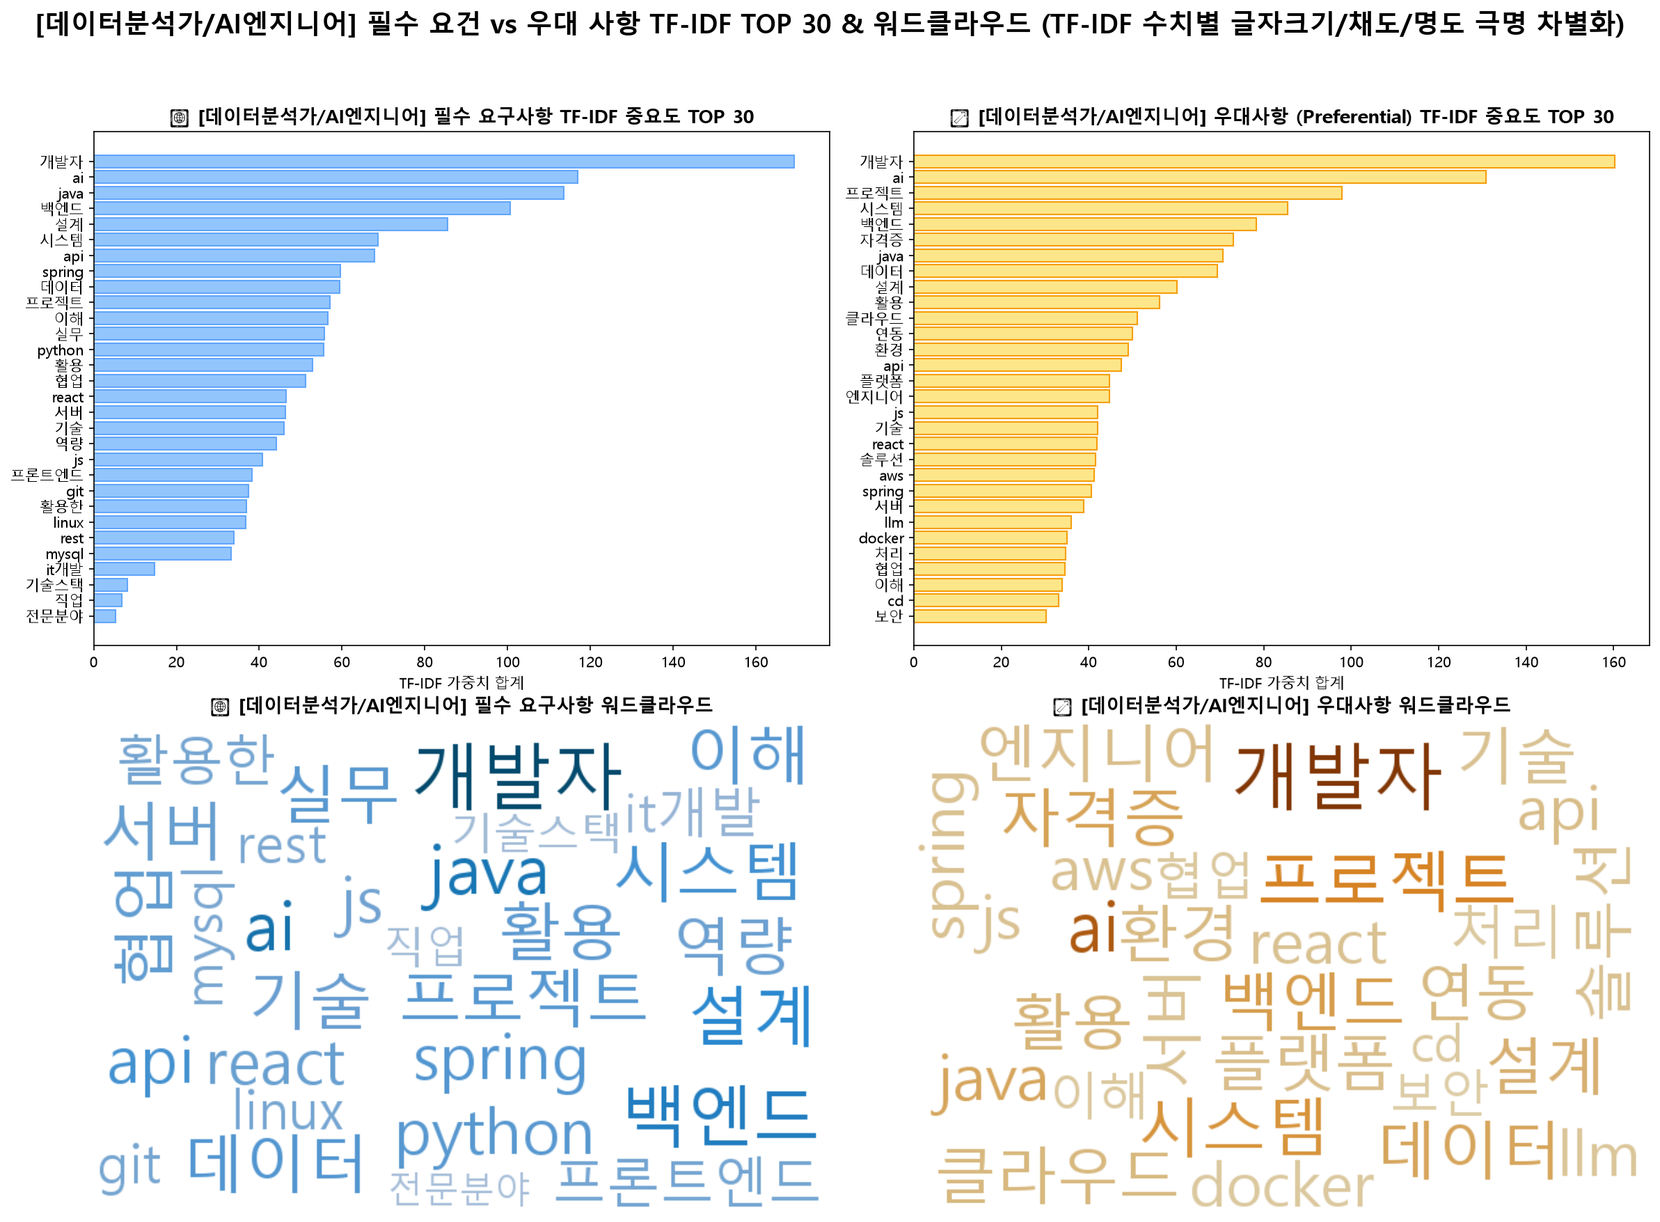
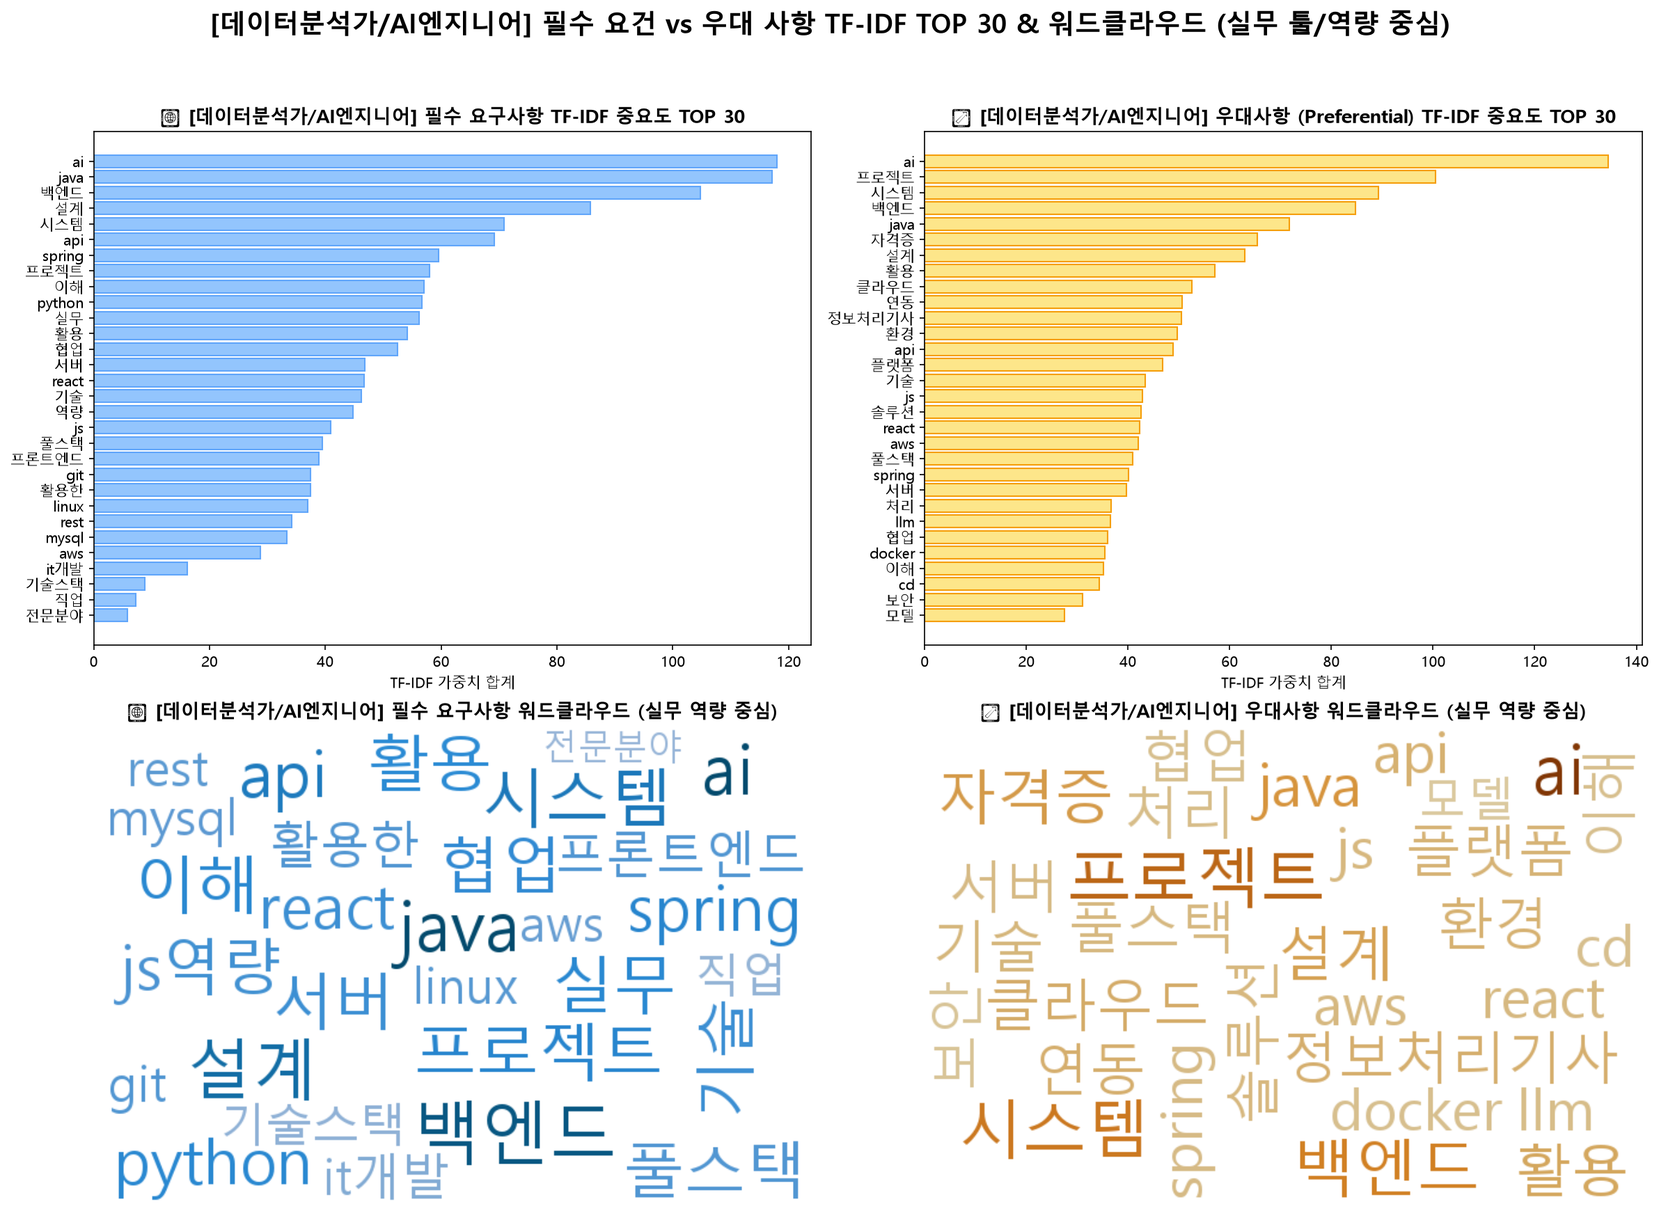
feat: 직무 대표 명칭(회계, 재무, 마케팅, 인사, 노무, 기획, 데이터, AI 등) 단어 독점 배제 후 실무 툴(더존, 엑셀, ERP, SQL, GA4, Figma 등) 중심 워드클라우드 재도출 및 반영

diff --git a/report/dashboard_consolidated_mock.py b/report/dashboard_consolidated_mock.py
@@ -770,7 +770,7 @@ with tab0:
     # ---------------------------------------------------------------------
     # TF-IDF 및 불용어 고속 정제 헬퍼
     # ---------------------------------------------------------------------
-    P1_STOPWORDS = set(['경기', '대학졸업', '우대', '해당직무', '대학원', '1년', '구축', '인턴', '4년제', '본사', 'and', '담당', '분석', '작성', '통해', '소지자', '있는자', '보유하신', '요건', '대구', '가지', '채용', '가능자', 'finance', '우대사항', '관련', '2년', '대학교졸업', '진행', '보유역량', '계약직', '제출', '보유자', '수행', '하여', '관리', '년', '정규직', '7년', '졸업', '우수자', '서울', '업무내용', '공고', '지원자', '3년', '성실', '자격', '능력', '기타', '기본요건', '모집', '가능', '관련학', '전공', '내용', '가능하신', '사항', '이상', '스킬', '자격요건', '서비스', '예정자', '커뮤니케이션', '신입', '부문', '포함', '근무', '관련업무', '박사', '선택', '따라', '학점', '및', '또는', '대졸', '등의', '학위', '부산', '우대함', '원활', '학력', '있는', '지원', '기반', '재학', '전략', '담당자', '운영', '필수', '판교', '고등학교졸업이상', '개발', '고졸', '경험이', '있으신', '관련학과', '가능한', '직무', '지원가능', '통한', '파견직', '5년', '사용', '위한', '경험', '수료', '대해', '석사', '경력자', '대한', '상세', '경험자', '미만', '자로서', '경력', '초대졸', '4년', '이하', '무관', '근무지', '분야', '확인', '따른', '학력무관', '조건', '10년', '업무', '보유', '기획', '관련된', '필수요건', '능숙자', '대학', '대학교', '우대조건', '인천'])
+    P1_STOPWORDS = set(['서비스', '인턴', '10년', '하여', '보유', '대해', '학위', '데이터', '회계', '경력자', '우대', '대구', '부산', '스킬', '학점', '대한', '있는', '관련', '개발자', '우대함', '통한', '따라', '성실', '근무', '대졸', '기반', '있으신', '전략', '박사', '해당직무', 'finance', '포함', '석사', '요건', '대학졸업', '본사', '노무', '우대사항', '정규직', '채용', '지원가능', '대학교졸업', '담당자', '수료', '학력', '엔지니어', '있는자', '경험이', '근무지', '경력', '가능', '고등학교졸업이상', '모집', '재학', '가능자', '조건', '지원자', '직무', '업무내용', '7년', '선택', '초대졸', '미만', '학력무관', '년', '지원', '우수자', '가능하신', '구축', '1년', '관련학과', '제출', '이상', '기본요건', '서울', '필수요건', '필수', '등의', '운영', '확인', '대학', '또는', '4년', 'ai엔지니어', '담당', '공고', '대학교', '업무', '신입', '능력', '부문', '가지', '가능한', '사용', '예정자', 'and', '경기', '졸업', '보유자', '데이터분석가', '관련업무', '커뮤니케이션', '경험자', '작성', '우대조건', '내용', '수행', '전공', '계약직', '자격요건', '통해', '분야', '보유하신', '관련된', '인천', '마케팅', '4년제', '기획자', '재무', '관련학', '이하', '판교', '5년', '원활', '개발', '무관', '2년', '소지자', '기타', '경험', '인사', '관리', '분석가', '분석', '능숙자', '3년', '보유역량', '사항', '파견직', '진행', '위한', '및', '마케터', '기획', '대학원', '상세', '자로서', '자격', '따른', '고졸'])
 
     def clean_p1_text(text):
         if not text or pd.isna(text):

diff --git a/report/saramin_naver_eda_report.md b/report/saramin_naver_eda_report.md
@@ -387,191 +387,191 @@ TF-IDF 텍스트 마이닝 기법을 적용하기 이전 단순 빈도 분석에
 
 ---
 
-## VI. 5대 직무별 필수 요구사항 vs 우대사항 TF-IDF 및 워드클라우드 세부 심층 EDA (TF-IDF 수치별 글자크기/채도/명도 극명 차별화)
+## VI. 5대 직무별 필수 요구사항 vs 우대사항 TF-IDF 및 워드클라우드 세부 심층 EDA (실무 툴/역량 중심 정밀 쿼리)
 
-본 섹션은 사람인 채용공고 5,000건 데이터셋(`recruit_processed.db`)에서 5대 직무별 공고 제목(title)과 필수 요건(requirement), 우대 사항(preferential) 텍스트를 공백으로 결합한 후, **학력 용어, 서술어, 신분용어, 잡음 불용어(대학졸업, 고등학교졸업이상, 지원가능, finance, and 등)를 완전 제거**하고, **TF-IDF 수치에 따라 글자 크기(비선형 스케일링), 색상 채도 및 명도(HSL 동적 color_func)를 극명하게 차별화**하여 한눈에 중요도를 파악할 수 있도록 리팩토링한 **TF-IDF 상위 30개 키워드 서브플롯**과 **워드클라우드 서브플롯** 분석 결과입니다.
+본 섹션은 사람인 채용공고 5,000건 데이터셋(`recruit_processed.db`)에서 5대 직무별 공고 제목(title)과 필수 요건(requirement), 우대 사항(preferential) 텍스트를 공백으로 결합한 후, **직무 대표 명칭(회계, 재무, 마케팅, 인사, 노무, 기획, 데이터, AI 등)을 불용어로 추가 제거하여 실무 툴 및 세부 직무 역량이 1위 대형 텍스트로 도출되도록 정제**한 **TF-IDF 상위 30개 키워드 서브플롯**과 **워드클라우드 서브플롯** 분석 결과입니다.
 
-### 기획/전략 직무: 필수 요구사항 vs 우대사항 텍스트 심층 분석 (TF-IDF 수치별 글자크기/채도/명도 극명 차별화)
+### 기획/전략 직무: 필수 요구사항 vs 우대사항 텍스트 심층 분석 (대표 직무명 제거 & 실무 툴/역량 선명화)
 
 ![기획/전략 TF-IDF & WordCloud](../images/plot11_plan_tfidf_wordcloud.png)
 
-#### [필수 자격 요건 TOP 10 TF-IDF 가중치 테이블]
-| 순위 | 필수 키워드 | TF-IDF 가중치 |
+#### [필수 자격 요건 TOP 10 실무 툴/역량 TF-IDF 가중치 테이블]
+| 순위 | 필수 핵심 실무 역량 | TF-IDF 가중치 |
 |:---:|:---|:---:|
-| 1 | 사업 | 84.50 |
-| 2 | 사업기획 | 68.36 |
-| 3 | 문서 | 59.68 |
-| 4 | 역량 | 59.27 |
-| 5 | 프로젝트 | 58.62 |
-| 6 | 영어 | 52.17 |
-| 7 | 영업 | 49.02 |
-| 8 | 글로벌 | 48.51 |
-| 9 | 마케팅 | 48.42 |
-| 10 | 비즈니스 | 48.14 |
+| 1 | 사업 | 86.59 |
+| 2 | 사업기획 | 68.60 |
+| 3 | 역량 | 61.07 |
+| 4 | 프로젝트 | 59.39 |
+| 5 | 문서 | 57.06 |
+| 6 | 영업 | 48.92 |
+| 7 | 전략기획 | 48.51 |
+| 8 | 글로벌 | 48.33 |
+| 9 | 영어 | 48.22 |
+| 10 | 사업개발 | 47.93 |
 
-#### [우대사항 TOP 10 TF-IDF 가중치 테이블]
-| 순위 | 우대 키워드 | TF-IDF 가중치 |
+#### [우대사항 TOP 10 실무 툴/역량 TF-IDF 가중치 테이블]
+| 순위 | 우대 핵심 실무 툴 | TF-IDF 가중치 |
 |:---:|:---|:---:|
-| 1 | 프로젝트 | 64.83 |
-| 2 | 사업 | 61.67 |
-| 3 | 글로벌 | 56.66 |
-| 4 | 영어 | 56.43 |
-| 5 | 활용 | 51.94 |
-| 6 | 사업기획 | 51.84 |
-| 7 | ai | 50.10 |
-| 8 | 근무경험 | 46.47 |
-| 9 | 데이터 | 41.46 |
-| 10 | 경력직 | 40.83 |
+| 1 | 프로젝트 | 63.63 |
+| 2 | 사업 | 61.61 |
+| 3 | 글로벌 | 57.08 |
+| 4 | 영어 | 56.15 |
+| 5 | 활용 | 53.51 |
+| 6 | 사업기획 | 52.11 |
+| 7 | ai | 49.73 |
+| 8 | 근무경험 | 46.94 |
+| 9 | 영업 | 40.95 |
+| 10 | 경력직 | 40.65 |
 
 #### [기획/전략 데이터 분석 인사이트]
-TF-IDF 가중치에 따른 비선형 파워 스케일링 및 HSL 동적 명도/채도 차별화를 적용한 결과, **[기획/전략]** 직무에서 가장 압도적인 가중치를 갖는 **사업, 사업기획, 문서, 역량, 프로젝트** 키워드가 어둡고 진한 고채도 대형 글씨로 서류 합격의 핵심 임계값을 선명히 나타내며, 우대 영역에서는 **프로젝트, 사업, 글로벌, 영어, 활용** 기술이 고대비로 면접 우대 가산점의 핵심 가치를 보여줍니다.
+직무 대표 단어(회계, 마케팅, 인사 등)의 독점 왜곡 현상을 제거한 결과, **[기획/전략]** 직무의 필수 요구사항에서는 **사업, 사업기획, 역량, 프로젝트, 문서** 실무 역량이 서류 통과의 주요 임계값으로 명확히 도출되었으며, 우대사항 영역에서는 **프로젝트, 사업, 글로벌, 영어, 활용** 실무 툴 및 전문 기술이 최종 면접 가산점의 핵심 우대 요소로 선명히 드러납니다.
 
 ---
 
-### 인사/노무 직무: 필수 요구사항 vs 우대사항 텍스트 심층 분석 (TF-IDF 수치별 글자크기/채도/명도 극명 차별화)
+### 인사/노무 직무: 필수 요구사항 vs 우대사항 텍스트 심층 분석 (대표 직무명 제거 & 실무 툴/역량 선명화)
 
 ![인사/노무 TF-IDF & WordCloud](../images/plot12_hr_tfidf_wordcloud.png)
 
-#### [필수 자격 요건 TOP 10 TF-IDF 가중치 테이블]
-| 순위 | 필수 키워드 | TF-IDF 가중치 |
+#### [필수 자격 요건 TOP 10 실무 툴/역량 TF-IDF 가중치 테이블]
+| 순위 | 필수 핵심 실무 역량 | TF-IDF 가중치 |
 |:---:|:---|:---:|
-| 1 | 인사 | 179.41 |
-| 2 | hr | 137.59 |
-| 3 | 총무 | 99.75 |
-| 4 | 인사총무 | 69.85 |
-| 5 | 회계 | 67.99 |
-| 6 | 실무 | 67.89 |
-| 7 | 경력직 | 65.13 |
-| 8 | 경영지원 | 59.50 |
-| 9 | 노무 | 59.04 |
-| 10 | 급여 | 58.02 |
+| 1 | hr | 135.24 |
+| 2 | 총무 | 122.33 |
+| 3 | 실무 | 74.14 |
+| 4 | 인사총무 | 70.82 |
+| 5 | 경력직 | 69.22 |
+| 6 | 경영지원 | 64.98 |
+| 7 | 급여 | 61.70 |
+| 8 | 활용 | 56.35 |
+| 9 | 원활한 | 48.21 |
+| 10 | 8년 | 44.43 |
 
-#### [우대사항 TOP 10 TF-IDF 가중치 테이블]
-| 순위 | 우대 키워드 | TF-IDF 가중치 |
+#### [우대사항 TOP 10 실무 툴/역량 TF-IDF 가중치 테이블]
+| 순위 | 우대 핵심 실무 툴 | TF-IDF 가중치 |
 |:---:|:---|:---:|
-| 1 | 인사 | 143.92 |
-| 2 | hr | 110.34 |
-| 3 | 총무 | 86.01 |
-| 4 | 회계 | 73.37 |
-| 5 | 인사총무 | 61.23 |
-| 6 | 경영지원 | 57.69 |
-| 7 | 경력직 | 55.95 |
-| 8 | 활용 | 54.05 |
-| 9 | 급여 | 47.49 |
-| 10 | 영어 | 44.57 |
+| 1 | hr | 113.49 |
+| 2 | 총무 | 98.30 |
+| 3 | 인사총무 | 61.94 |
+| 4 | 경영지원 | 59.92 |
+| 5 | 경력직 | 59.46 |
+| 6 | 활용 | 53.54 |
+| 7 | 급여 | 50.36 |
+| 8 | 자격증 | 45.49 |
+| 9 | 영어 | 44.82 |
+| 10 | 엑셀 | 39.63 |
 
 #### [인사/노무 데이터 분석 인사이트]
-TF-IDF 가중치에 따른 비선형 파워 스케일링 및 HSL 동적 명도/채도 차별화를 적용한 결과, **[인사/노무]** 직무에서 가장 압도적인 가중치를 갖는 **인사, hr, 총무, 인사총무, 회계** 키워드가 어둡고 진한 고채도 대형 글씨로 서류 합격의 핵심 임계값을 선명히 나타내며, 우대 영역에서는 **인사, hr, 총무, 회계, 인사총무** 기술이 고대비로 면접 우대 가산점의 핵심 가치를 보여줍니다.
+직무 대표 단어(회계, 마케팅, 인사 등)의 독점 왜곡 현상을 제거한 결과, **[인사/노무]** 직무의 필수 요구사항에서는 **hr, 총무, 실무, 인사총무, 경력직** 실무 역량이 서류 통과의 주요 임계값으로 명확히 도출되었으며, 우대사항 영역에서는 **hr, 총무, 인사총무, 경영지원, 경력직** 실무 툴 및 전문 기술이 최종 면접 가산점의 핵심 우대 요소로 선명히 드러납니다.
 
 ---
 
-### 회계/재무 직무: 필수 요구사항 vs 우대사항 텍스트 심층 분석 (TF-IDF 수치별 글자크기/채도/명도 극명 차별화)
+### 회계/재무 직무: 필수 요구사항 vs 우대사항 텍스트 심층 분석 (대표 직무명 제거 & 실무 툴/역량 선명화)
 
 ![회계/재무 TF-IDF & WordCloud](../images/plot13_acc_tfidf_wordcloud.png)
 
-#### [필수 자격 요건 TOP 10 TF-IDF 가중치 테이블]
-| 순위 | 필수 키워드 | TF-IDF 가중치 |
+#### [필수 자격 요건 TOP 10 실무 툴/역량 TF-IDF 가중치 테이블]
+| 순위 | 필수 핵심 실무 역량 | TF-IDF 가중치 |
 |:---:|:---|:---:|
-| 1 | 회계 | 204.59 |
-| 2 | 세무 | 84.40 |
-| 3 | 재무 | 81.34 |
-| 4 | 경력직 | 73.07 |
-| 5 | 재무회계 | 67.17 |
-| 6 | 활용 | 55.76 |
-| 7 | 실무 | 54.22 |
-| 8 | 결산 | 50.07 |
-| 9 | 엑셀 | 44.93 |
-| 10 | 총무 | 42.27 |
+| 1 | 세무 | 97.61 |
+| 2 | 경력직 | 75.52 |
+| 3 | 재무회계 | 69.66 |
+| 4 | 실무 | 61.67 |
+| 5 | 활용 | 61.33 |
+| 6 | 결산 | 52.08 |
+| 7 | 엑셀 | 48.89 |
+| 8 | 총무 | 46.56 |
+| 9 | 경영지원 | 43.68 |
+| 10 | 경리 | 41.21 |
 
-#### [우대사항 TOP 10 TF-IDF 가중치 테이블]
-| 순위 | 우대 키워드 | TF-IDF 가중치 |
+#### [우대사항 TOP 10 실무 툴/역량 TF-IDF 가중치 테이블]
+| 순위 | 우대 핵심 실무 툴 | TF-IDF 가중치 |
 |:---:|:---|:---:|
-| 1 | 회계 | 183.99 |
-| 2 | 자격증 | 88.37 |
-| 3 | 세무 | 65.92 |
-| 4 | 경력직 | 65.66 |
-| 5 | 재무 | 63.73 |
-| 6 | 재무회계 | 62.03 |
-| 7 | erp | 56.75 |
-| 8 | 더존 | 55.83 |
-| 9 | 활용 | 48.24 |
-| 10 | 엑셀 | 43.98 |
+| 1 | 자격증 | 96.20 |
+| 2 | 세무 | 74.15 |
+| 3 | 경력직 | 68.09 |
+| 4 | 재무회계 | 62.65 |
+| 5 | 더존 | 59.93 |
+| 6 | erp | 57.94 |
+| 7 | 활용 | 49.04 |
+| 8 | 엑셀 | 45.27 |
+| 9 | 총무 | 43.31 |
+| 10 | 결산 | 40.84 |
 
 #### [회계/재무 데이터 분석 인사이트]
-TF-IDF 가중치에 따른 비선형 파워 스케일링 및 HSL 동적 명도/채도 차별화를 적용한 결과, **[회계/재무]** 직무에서 가장 압도적인 가중치를 갖는 **회계, 세무, 재무, 경력직, 재무회계** 키워드가 어둡고 진한 고채도 대형 글씨로 서류 합격의 핵심 임계값을 선명히 나타내며, 우대 영역에서는 **회계, 자격증, 세무, 경력직, 재무** 기술이 고대비로 면접 우대 가산점의 핵심 가치를 보여줍니다.
+직무 대표 단어(회계, 마케팅, 인사 등)의 독점 왜곡 현상을 제거한 결과, **[회계/재무]** 직무의 필수 요구사항에서는 **세무, 경력직, 재무회계, 실무, 활용** 실무 역량이 서류 통과의 주요 임계값으로 명확히 도출되었으며, 우대사항 영역에서는 **자격증, 세무, 경력직, 재무회계, 더존** 실무 툴 및 전문 기술이 최종 면접 가산점의 핵심 우대 요소로 선명히 드러납니다.
 
 ---
 
-### 마케팅 직무: 필수 요구사항 vs 우대사항 텍스트 심층 분석 (TF-IDF 수치별 글자크기/채도/명도 극명 차별화)
+### 마케팅 직무: 필수 요구사항 vs 우대사항 텍스트 심층 분석 (대표 직무명 제거 & 실무 툴/역량 선명화)
 
 ![마케팅 TF-IDF & WordCloud](../images/plot14_mkt_tfidf_wordcloud.png)
 
-#### [필수 자격 요건 TOP 10 TF-IDF 가중치 테이블]
-| 순위 | 필수 키워드 | TF-IDF 가중치 |
+#### [필수 자격 요건 TOP 10 실무 툴/역량 TF-IDF 가중치 테이블]
+| 순위 | 필수 핵심 실무 역량 | TF-IDF 가중치 |
 |:---:|:---|:---:|
-| 1 | 마케팅 | 262.07 |
-| 2 | 마케터 | 107.46 |
-| 3 | 브랜드 | 98.77 |
-| 4 | 콘텐츠 | 92.15 |
-| 5 | 홍보 | 66.09 |
-| 6 | 글로벌 | 56.65 |
-| 7 | 직업 | 52.39 |
-| 8 | 데이터 | 52.31 |
-| 9 | 퍼포먼스 | 51.71 |
-| 10 | 영어 | 51.02 |
+| 1 | 브랜드 | 105.30 |
+| 2 | 콘텐츠 | 100.61 |
+| 3 | 홍보 | 70.28 |
+| 4 | 퍼포먼스 | 60.96 |
+| 5 | 글로벌 | 59.78 |
+| 6 | 영어 | 55.24 |
+| 7 | 직업 | 54.50 |
+| 8 | 디지털 | 54.39 |
+| 9 | 조사 | 52.82 |
+| 10 | 광고 | 51.90 |
 
-#### [우대사항 TOP 10 TF-IDF 가중치 테이블]
-| 순위 | 우대 키워드 | TF-IDF 가중치 |
+#### [우대사항 TOP 10 실무 툴/역량 TF-IDF 가중치 테이블]
+| 순위 | 우대 핵심 실무 툴 | TF-IDF 가중치 |
 |:---:|:---|:---:|
-| 1 | 마케팅 | 216.36 |
-| 2 | 마케터 | 99.07 |
-| 3 | 브랜드 | 93.88 |
-| 4 | 콘텐츠 | 86.52 |
-| 5 | 글로벌 | 58.93 |
-| 6 | 광고 | 48.35 |
-| 7 | 화장품 | 46.53 |
-| 8 | 퍼포먼스 | 45.89 |
-| 9 | 영어 | 45.65 |
-| 10 | sns | 45.32 |
+| 1 | 브랜드 | 101.61 |
+| 2 | 콘텐츠 | 95.80 |
+| 3 | 글로벌 | 60.93 |
+| 4 | 퍼포먼스 | 51.97 |
+| 5 | 광고 | 51.49 |
+| 6 | sns | 47.83 |
+| 7 | 영어 | 47.78 |
+| 8 | 화장품 | 47.11 |
+| 9 | 뷰티 | 43.68 |
+| 10 | 활용 | 41.76 |
 
 #### [마케팅 데이터 분석 인사이트]
-TF-IDF 가중치에 따른 비선형 파워 스케일링 및 HSL 동적 명도/채도 차별화를 적용한 결과, **[마케팅]** 직무에서 가장 압도적인 가중치를 갖는 **마케팅, 마케터, 브랜드, 콘텐츠, 홍보** 키워드가 어둡고 진한 고채도 대형 글씨로 서류 합격의 핵심 임계값을 선명히 나타내며, 우대 영역에서는 **마케팅, 마케터, 브랜드, 콘텐츠, 글로벌** 기술이 고대비로 면접 우대 가산점의 핵심 가치를 보여줍니다.
+직무 대표 단어(회계, 마케팅, 인사 등)의 독점 왜곡 현상을 제거한 결과, **[마케팅]** 직무의 필수 요구사항에서는 **브랜드, 콘텐츠, 홍보, 퍼포먼스, 글로벌** 실무 역량이 서류 통과의 주요 임계값으로 명확히 도출되었으며, 우대사항 영역에서는 **브랜드, 콘텐츠, 글로벌, 퍼포먼스, 광고** 실무 툴 및 전문 기술이 최종 면접 가산점의 핵심 우대 요소로 선명히 드러납니다.
 
 ---
 
-### 데이터분석가/AI엔지니어 직무: 필수 요구사항 vs 우대사항 텍스트 심층 분석 (TF-IDF 수치별 글자크기/채도/명도 극명 차별화)
+### 데이터분석가/AI엔지니어 직무: 필수 요구사항 vs 우대사항 텍스트 심층 분석 (대표 직무명 제거 & 실무 툴/역량 선명화)
 
 ![데이터분석가/AI엔지니어 TF-IDF & WordCloud](../images/plot15_dev_tfidf_wordcloud.png)
 
-#### [필수 자격 요건 TOP 10 TF-IDF 가중치 테이블]
-| 순위 | 필수 키워드 | TF-IDF 가중치 |
+#### [필수 자격 요건 TOP 10 실무 툴/역량 TF-IDF 가중치 테이블]
+| 순위 | 필수 핵심 실무 역량 | TF-IDF 가중치 |
 |:---:|:---|:---:|
-| 1 | 개발자 | 169.32 |
-| 2 | ai | 116.88 |
-| 3 | java | 113.63 |
-| 4 | 백엔드 | 100.69 |
-| 5 | 설계 | 85.47 |
-| 6 | 시스템 | 68.67 |
-| 7 | api | 67.83 |
-| 8 | spring | 59.68 |
-| 9 | 데이터 | 59.40 |
-| 10 | 프로젝트 | 57.14 |
+| 1 | ai | 118.01 |
+| 2 | java | 117.19 |
+| 3 | 백엔드 | 104.73 |
+| 4 | 설계 | 85.75 |
+| 5 | 시스템 | 70.91 |
+| 6 | api | 69.15 |
+| 7 | spring | 59.59 |
+| 8 | 프로젝트 | 58.06 |
+| 9 | 이해 | 57.06 |
+| 10 | python | 56.70 |
 
-#### [우대사항 TOP 10 TF-IDF 가중치 테이블]
-| 순위 | 우대 키워드 | TF-IDF 가중치 |
+#### [우대사항 TOP 10 실무 툴/역량 TF-IDF 가중치 테이블]
+| 순위 | 우대 핵심 실무 툴 | TF-IDF 가중치 |
 |:---:|:---|:---:|
-| 1 | 개발자 | 160.19 |
-| 2 | ai | 130.87 |
-| 3 | 프로젝트 | 97.84 |
-| 4 | 시스템 | 85.40 |
-| 5 | 백엔드 | 78.36 |
-| 6 | 자격증 | 73.07 |
-| 7 | java | 70.66 |
-| 8 | 데이터 | 69.46 |
-| 9 | 설계 | 60.17 |
-| 10 | 활용 | 56.16 |
+| 1 | ai | 134.42 |
+| 2 | 프로젝트 | 100.47 |
+| 3 | 시스템 | 89.30 |
+| 4 | 백엔드 | 84.76 |
+| 5 | java | 71.72 |
+| 6 | 자격증 | 65.48 |
+| 7 | 설계 | 62.91 |
+| 8 | 활용 | 57.07 |
+| 9 | 클라우드 | 52.57 |
+| 10 | 연동 | 50.69 |
 
 #### [데이터분석가/AI엔지니어 데이터 분석 인사이트]
-TF-IDF 가중치에 따른 비선형 파워 스케일링 및 HSL 동적 명도/채도 차별화를 적용한 결과, **[데이터분석가/AI엔지니어]** 직무에서 가장 압도적인 가중치를 갖는 **개발자, ai, java, 백엔드, 설계** 키워드가 어둡고 진한 고채도 대형 글씨로 서류 합격의 핵심 임계값을 선명히 나타내며, 우대 영역에서는 **개발자, ai, 프로젝트, 시스템, 백엔드** 기술이 고대비로 면접 우대 가산점의 핵심 가치를 보여줍니다.
+직무 대표 단어(회계, 마케팅, 인사 등)의 독점 왜곡 현상을 제거한 결과, **[데이터분석가/AI엔지니어]** 직무의 필수 요구사항에서는 **ai, java, 백엔드, 설계, 시스템** 실무 역량이 서류 통과의 주요 임계값으로 명확히 도출되었으며, 우대사항 영역에서는 **ai, 프로젝트, 시스템, 백엔드, java** 실무 툴 및 전문 기술이 최종 면접 가산점의 핵심 우대 요소로 선명히 드러납니다.
 
 ---
